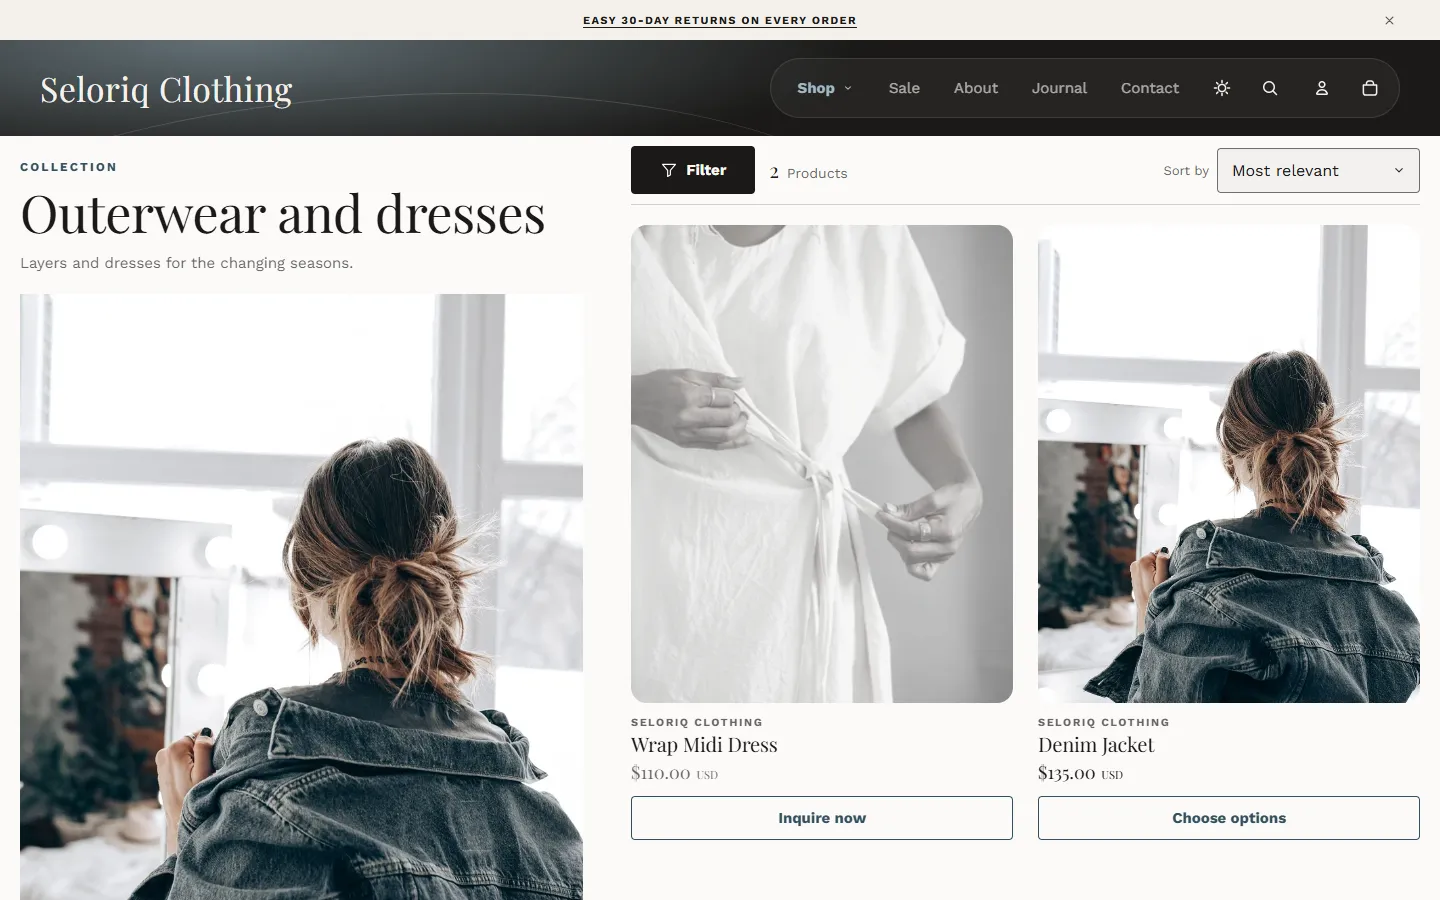
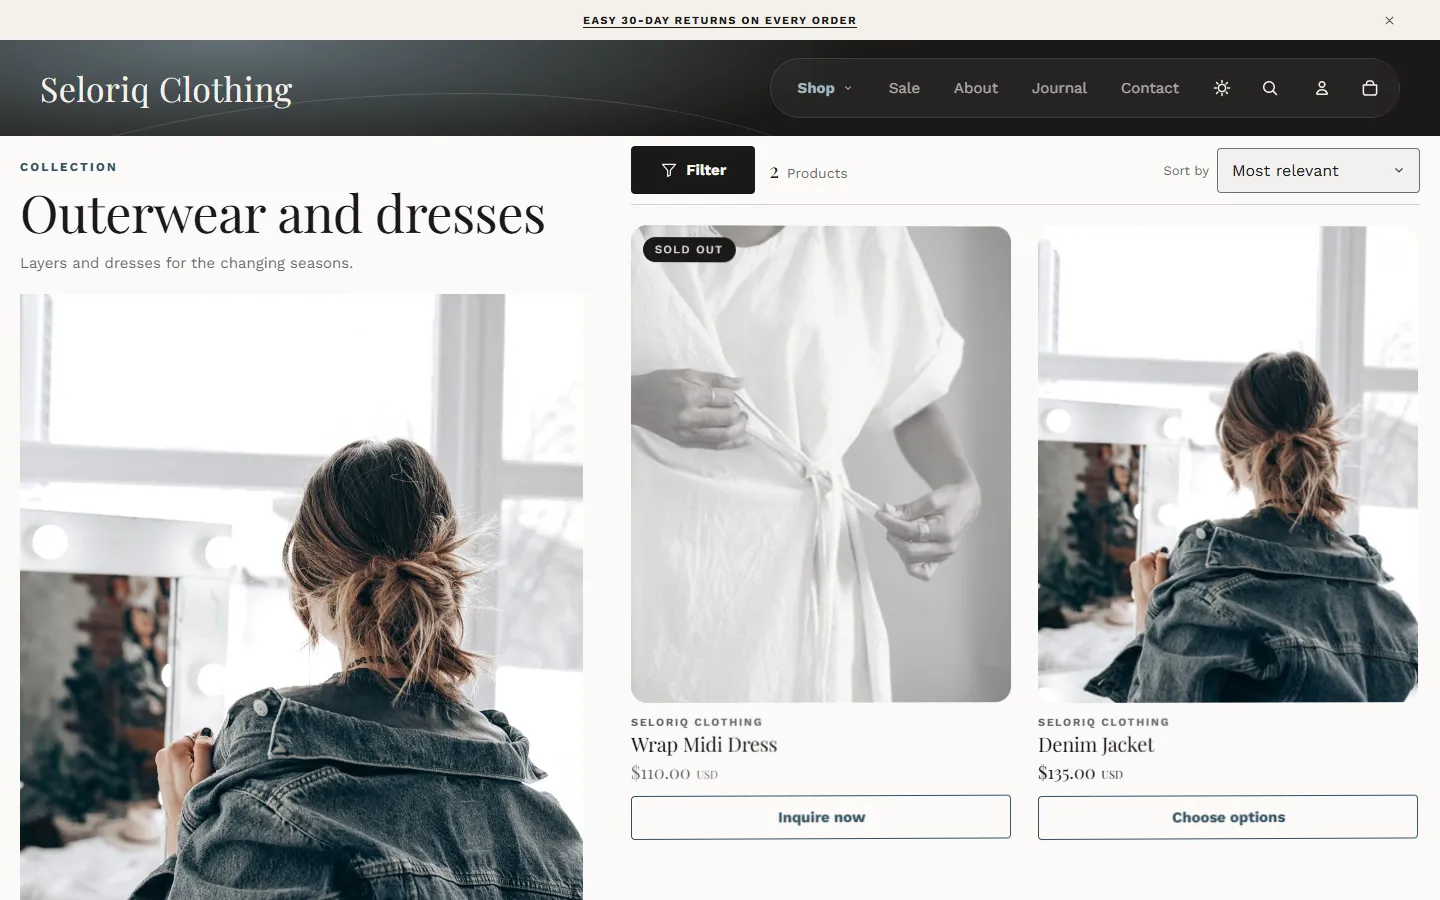
Collection, search and cart: sold-out card in inquiry mode retaken with its Sold out badge

diff --git a/collection-search-cart.md b/collection-search-cart.md
@@ -1,6 +1,6 @@
 ---
 title: Collection, search and cart pages
-updated: 2026-10-21
+updated: 2026-10-23
 ---
 
 # Collection, search and cart pages
@@ -425,7 +425,7 @@ The card shown for every product, on the home page, collection and search pages 
 
 <div class="pair" style="margin-top:18px">
   <figure class="shot shot--desktop">
-    <img src="{{ '/assets/images/collection/product-card-sold-out-inquiry-desktop-light.webp' | relative_url }}" alt="The same collection page where the sold out dress shows an Inquire now button" width="1440" height="900" loading="lazy">
+    <img src="{{ '/assets/images/collection/product-card-sold-out-inquiry-desktop-light.webp' | relative_url }}" alt="The same collection page where the sold out dress keeps its Sold out label and shows an Inquire now button" width="1440" height="900" loading="lazy">
     <figcaption>Sold out products: Show an inquiry button</figcaption>
   </figure>
 </div>
